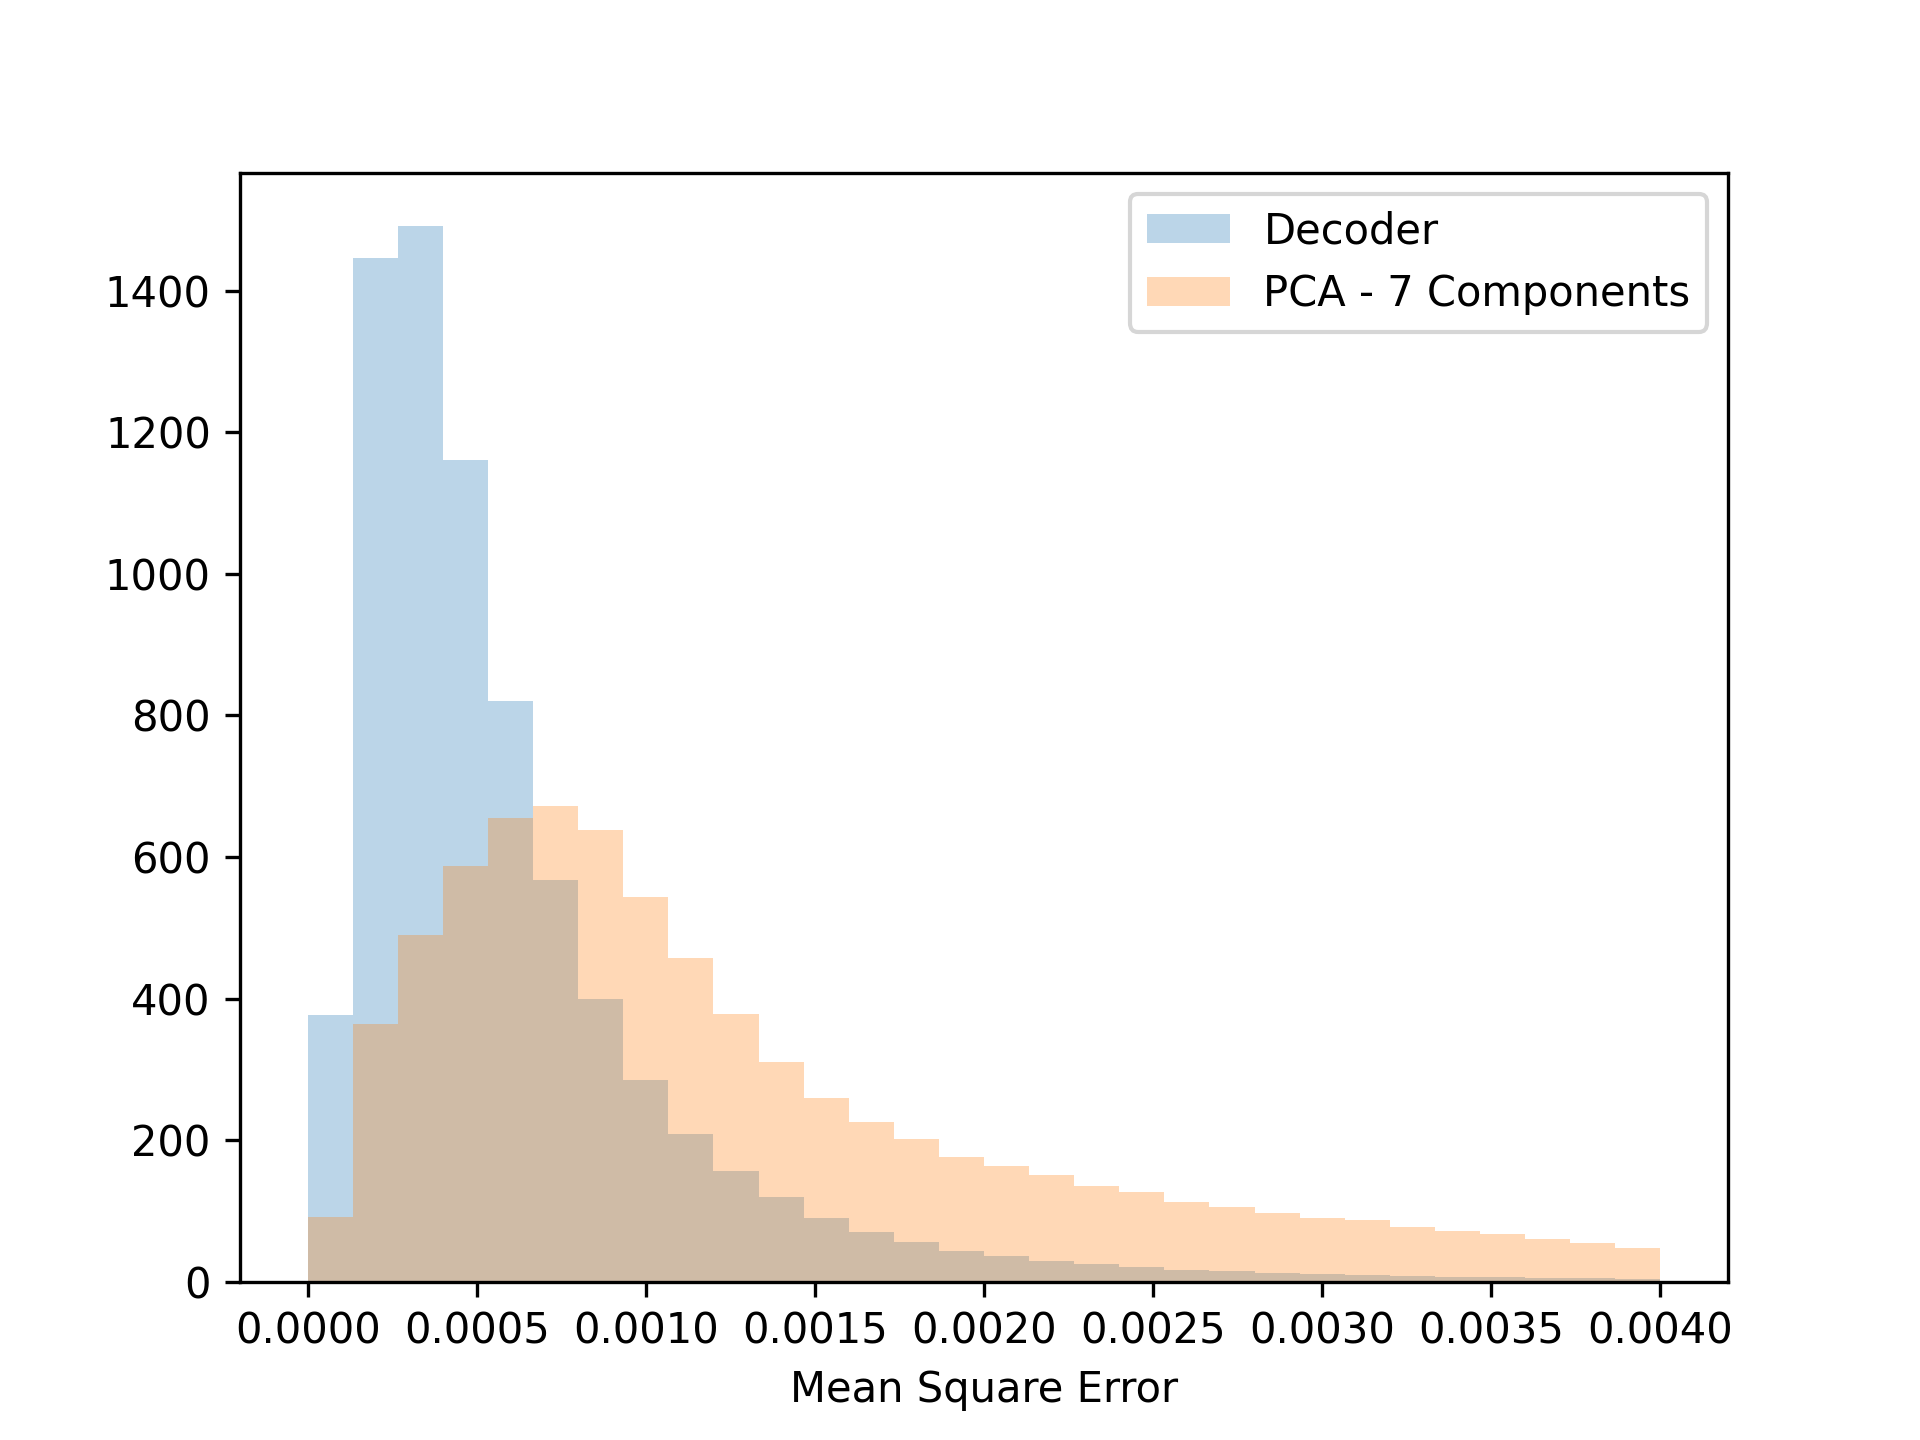
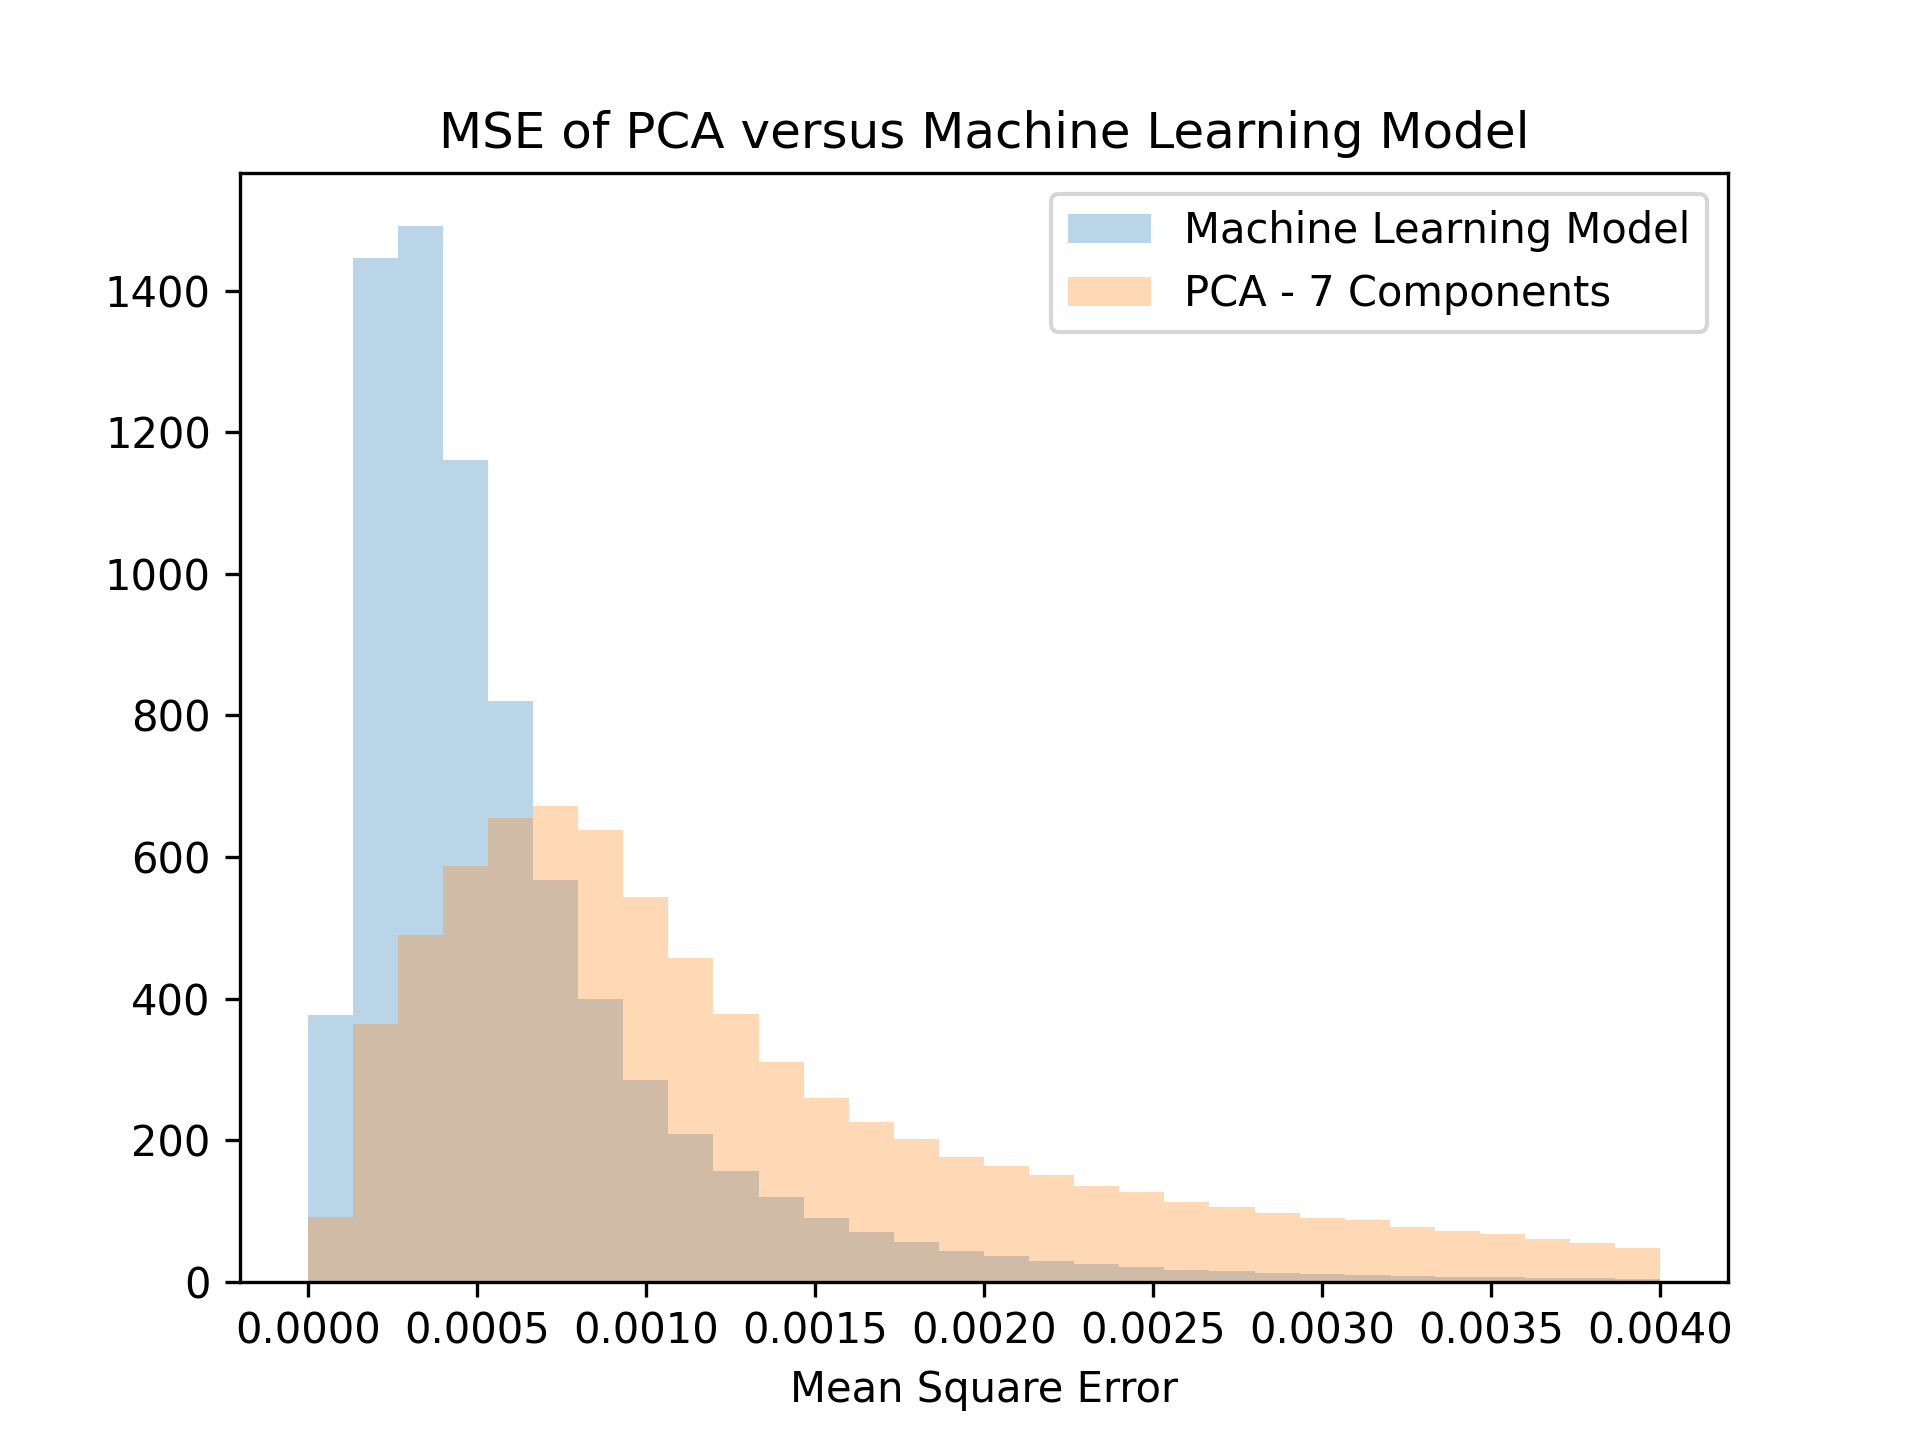
full regression with 1 mill

Changed region(s): [[0.4062, 0.0625, 0.875, 0.2188], [0.2188, 0.0625, 0.375, 0.125]]

diff --git a/regression/find_colors.py b/regression/find_colors.py
@@ -228,6 +228,9 @@ def get_models_in_polygon(t1_vert, t2_vert, n_sed, n_cos, width):
     j=0
     k=0
     #Find all viewings which have colors in type1-region ('blue box'), and simultaneously in type2-region ('red box')
+    #width = 0.1
+    #hit_miss_grids = np.zeros((76*39,n_sed))
+    #width = 0.05
     hit_miss_grids = np.zeros((151*76,n_sed))
 
     w21_min, w21_max = 0.5,4.25
@@ -363,6 +366,8 @@ def find_y_grid(width):
             if y0 == 0.5:
                 cx += 1
 
+    print(cx)
+    print(cy)
     desi = pd.read_csv(path + 'regression\\agn_explore\\desi.csv')
     sdss = pd.read_csv(path + 'regression\\agn_explore\\sdss.csv')
     w1 = np.array(sdss.w1)
@@ -384,7 +389,7 @@ def regression(t1_vert,t2_vert, n_sed, n_cos, width):
     y = H.T.flatten()
 
     # set up cross validation
-    ENet = ElasticNet(alpha = 0.01, l1_ratio = 0.99, fit_intercept=False,positive=True, random_state=0)
+    ENet = ElasticNet(alpha = 0.0045, l1_ratio = 0.45, fit_intercept=False,positive=True, random_state=0)
     ENet.fit(X,y)
 
     #predict new grid from X
@@ -394,6 +399,7 @@ def regression(t1_vert,t2_vert, n_sed, n_cos, width):
     coeff = ENet.coef_
     print(coeff)
     #plotting
+    
     fig = p.figure(figsize=(8/1.5,12/1.5))
     cmap = p.cm.jet
     norm = mpl.colors.Normalize()
@@ -415,11 +421,15 @@ def regression(t1_vert,t2_vert, n_sed, n_cos, width):
     make_panel(ax2,data_pred_2d/cellarea,extent=extent,title='Elastic Net',ylabel='W12')
     ax3 = fig.add_subplot(313)
     make_panel(ax3,np.abs(H.T-data_pred_2d)/cellarea,extent=extent,title='Data - Elastic Net',xlabel='W23',ylabel='W12')
+    COLOR = 'white'
+    mpl.rcParams['text.color'] = COLOR
+    ax3.text(6,3, 'Mean Residual = ' + str(round(np.mean((H.T-data_pred_2d).flatten())/cellarea,3)), horizontalalignment='center', verticalalignment='center')
     p.savefig('data.png', dpi=300)
     p.clf()
 
     #Saveing colortracks, params for those, and weights for each
     np.savez('ct_p_coeff.npz', colortracks=tracks,params=params, coeff=coeff)
+    
 
 
 def main():

diff --git a/autoencoder/test_decoder.py b/autoencoder/test_decoder.py
@@ -43,7 +43,7 @@ in_temp, in_test, out_temp, out_test = train_test_split(input_params, output_flu
 in_train, in_valid, out_train, out_valid = train_test_split(in_temp, out_temp, test_size=0.1, random_state=1)
 
 model = load_model(path + 'autoencoder\\3layer_64\\model_decoder_gpu_64.keras')
-
+"""
 hist = pd.read_csv(path + 'autoencoder\\3layer_64\\history_gpu_64.csv', delimiter=',')
 print(hist)
 epochs = range(1,101)[1:]
@@ -86,7 +86,7 @@ plt.ylabel('Log Flux')
 plt.title('New Unique Spectra vs Old')
 plt.savefig(path + 'autoencoder\\3layer_64\\New_generation_3_layer_64.png', dpi=300)
 plt.clf()
-
+"""
 
 in_flux = model.predict(input_params)
 in_flux = 10**in_flux
@@ -114,13 +114,15 @@ Xhat = 10**Xhat
 err_set_PCA = np.abs((Xhat-flux))/flux
 mse_PCA = np.array(np.mean(np.square(err_set_PCA), axis=1))
 
-_, bins, _ = plt.hist(mse, bins = 30, range=[0, 0.004], density = True, alpha = 0.3, label = 'Decoder')
+_, bins, _ = plt.hist(mse, bins = 30, range=[0, 0.004], density = True, alpha = 0.3, label = 'Machine Learning Model')
 plt.hist(mse_PCA, bins = bins, density = True, alpha = 0.3, label = 'PCA - 7 Components')
 plt.legend()
+plt.title('MSE of PCA versus Machine Learning Model')
 plt.xlabel('Mean Square Error')
 plt.savefig(path + 'autoencoder\\3layer_64\\mse_7_3_layer_64.png', dpi=300)
 plt.clf()
 
+"""
 ##### CREATE PLOT OF SPECTRA WITH MOST ERROR
 spectra = np.argmax(mse)
 in_flux = in_flux[spectra]
@@ -202,3 +204,4 @@ ax1.set_ylabel('Error')
 
 plt.savefig(path + 'autoencoder\\3layer_64\\Spectra_comparison_decoder_3_layer_64.png', dpi=300, bbox_inches='tight')
 plt.clf()
+"""
